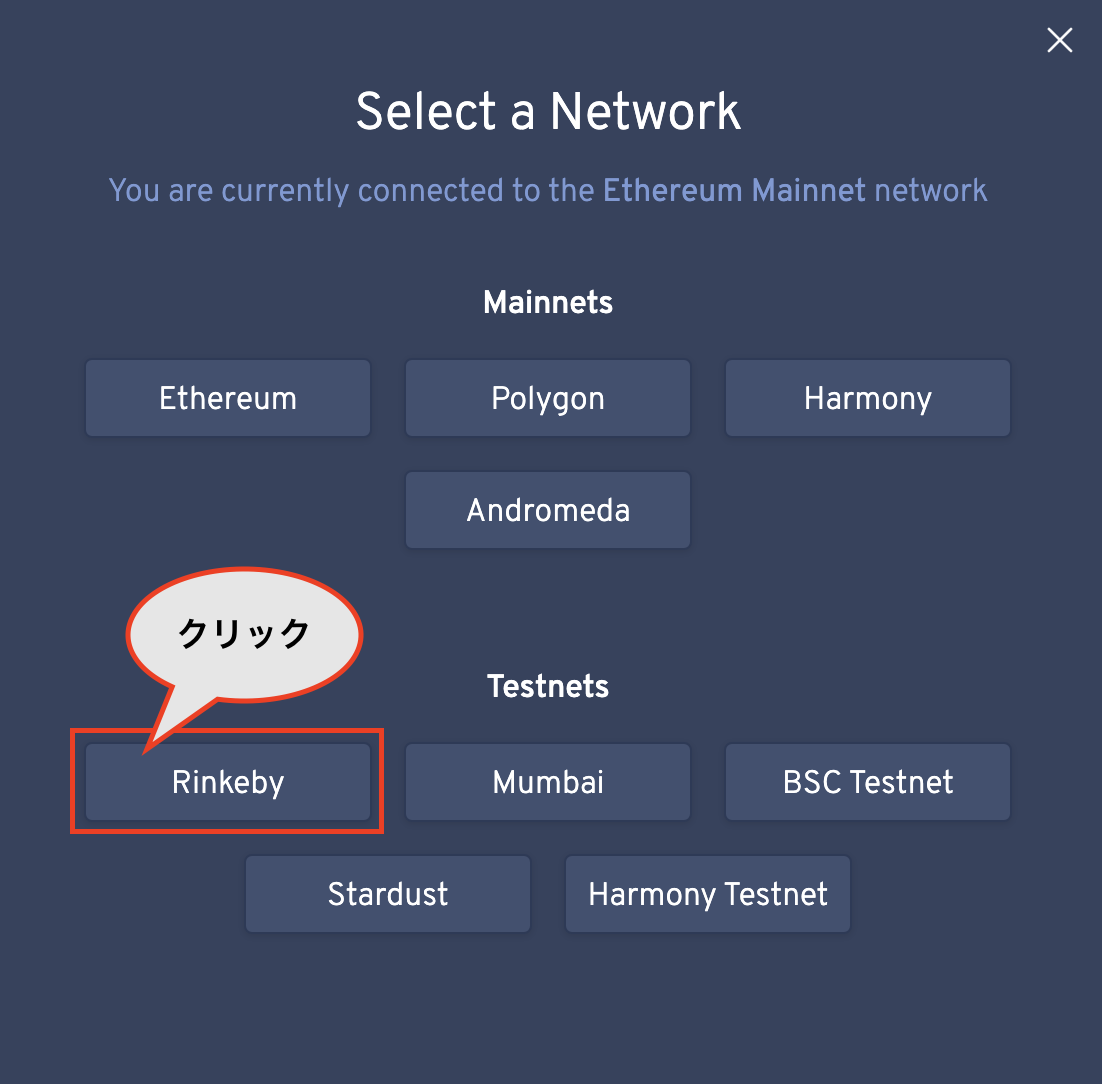
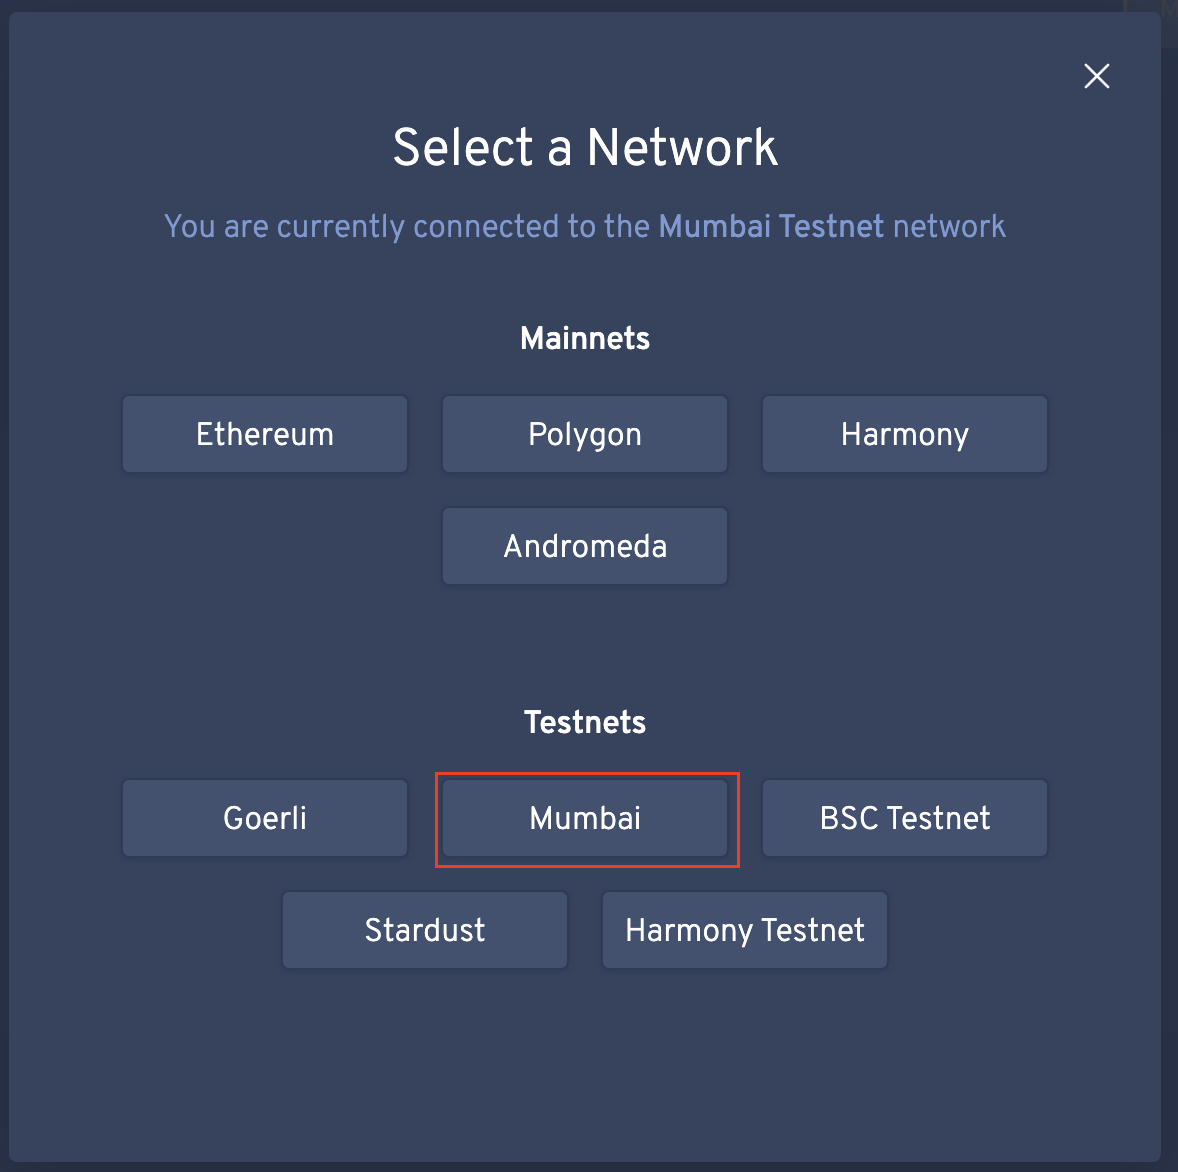
Aragonの記述をMumbai仕様に変更

diff --git a/aragon/index.md b/aragon/index.md
@@ -12,7 +12,7 @@
 【勉強会参加者の方へ】ウォレットを作成したら、ウォレットアドレスをBrave Talkのチャット欄に投稿してください。ハンズオンで必要となるトークン(mch)をお送りします。ちなみにテストネットなので資産価値はゼロです。ご安心ください。
 ![wallet1](img/wallet_01.png)
 
-## Brave Walletの設定
+## Brave Walletの設定(Mumbaiネットワークの追加)
 Omochi DAOはPolygonのテストネットであるMumbaiを使用するため、設定の確認が必要です。
 
 Braveのアドレスバーに
@@ -27,6 +27,50 @@ brave://settings/wallet/networks
 
 必要な設定が自動入力されますので、画面を下にスクロールし、［送信］を押下します。
 ![setting](img/setting_04.png)
+
+## Brave Walletの設定(MCHトークンの表示設定)
+勉強会で使用するOMOCHI(MCH)トークンは、この勉強会でしか使用されないため、ウォレットに表示させるための設定が必要です。
+
+Braveのアドレスバーに
+
+brave://wallet/crypto/portfolio/add-asset
+
+と入力し、「カスタムアセットを追加」をクリックします。
+
+![setting](img/setting_06.png)
+
+それぞれの項目は以下の通り設定します。
+
+■ネットワークを選択  
+Mumbai
+
+■トークン名  
+OMOCHI
+
+■トークンアドレス  
+0xC279D3E2A1E7A585F0Cb42A593327cEd909FdA86
+
+■トークンシンボル  
+MCH
+
+小数点桁数  
+18
+
+![setting](img/setting_07.png)
+
+［追加］ボタンを押下すると、OMOCHIトークンが表示されます！
+
+![setting](img/setting_08.png)
+
+## Brave Walletの設定(ロックされるまでの時間)
+
+そのほか、
+
+brave://settings/wallet
+
+で、ウォレットがロックされるまでの時間を30分程度に設定することを推奨します。
+
+![setting](img/setting_05.png)
 
 ## ガス代で使用するmaticトークンの取得
 [https://faucet.polygon.technology/](https://faucet.polygon.technology/)にアクセスし、ウォレットアドレスを入力して［Submit］を押下してください。
@@ -49,6 +93,7 @@ brave://settings/wallet/networks
 ![ara2](img/aragon_02.png)
 
 次にウォレット接続を行います。
+
 ![ara3](img/aragon_03.png)
 ![ara4](img/aragon_04.png)
 ![wallet2](img/wallet_02.png)
@@ -58,3 +103,6 @@ brave://settings/wallet/networks
 ![ara5](img/aragon_05.png)
 ![ara6](img/aragon_06.png)
 ![ara7](img/aragon_07.png)
+
+"Loading App" の表示がなかなか消えないときは、Brave Shieldsを一度無効にしてみてください。画面が表示されたら有効に戻して問題ありません。
+![ara8](img/aragon_08.png)
